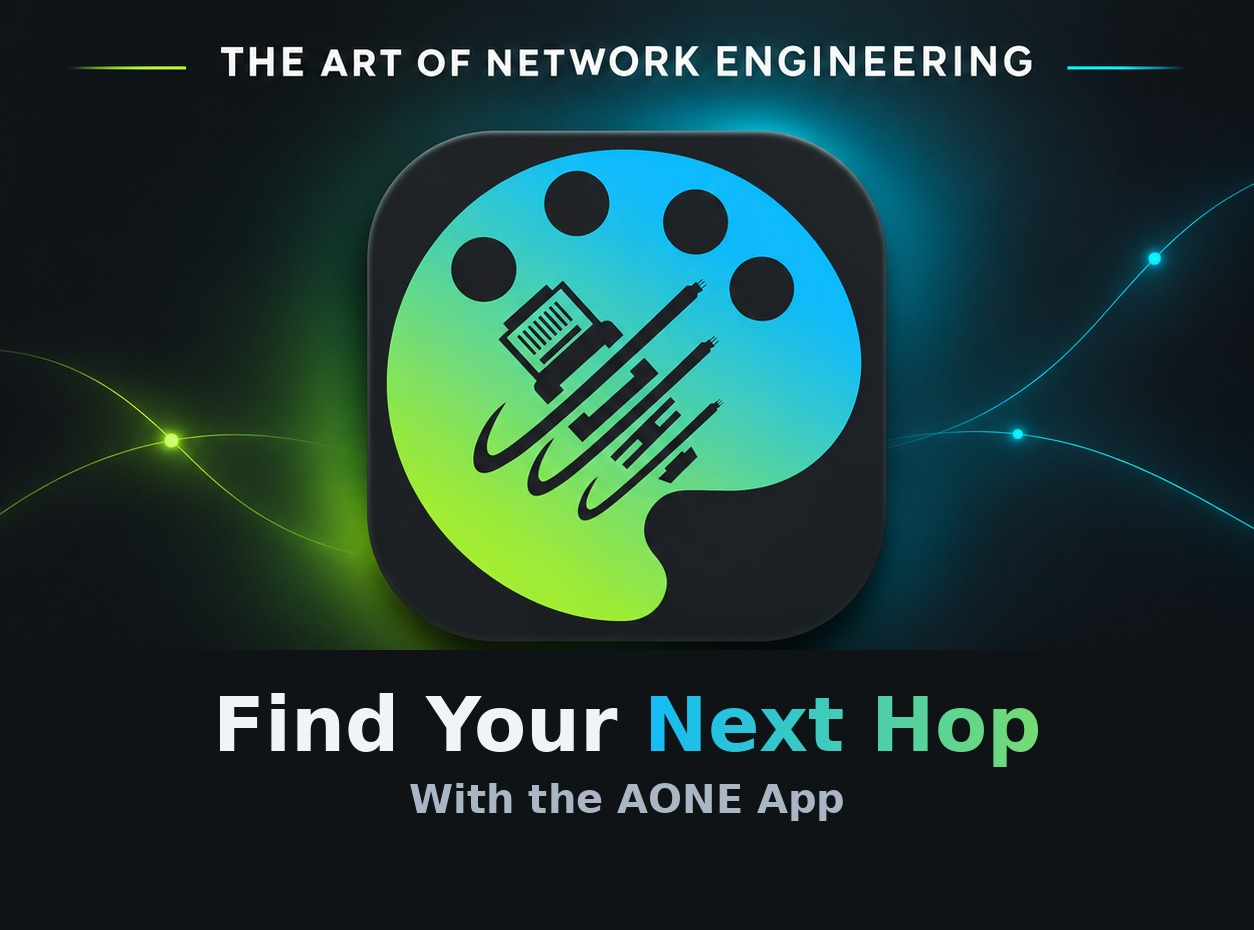
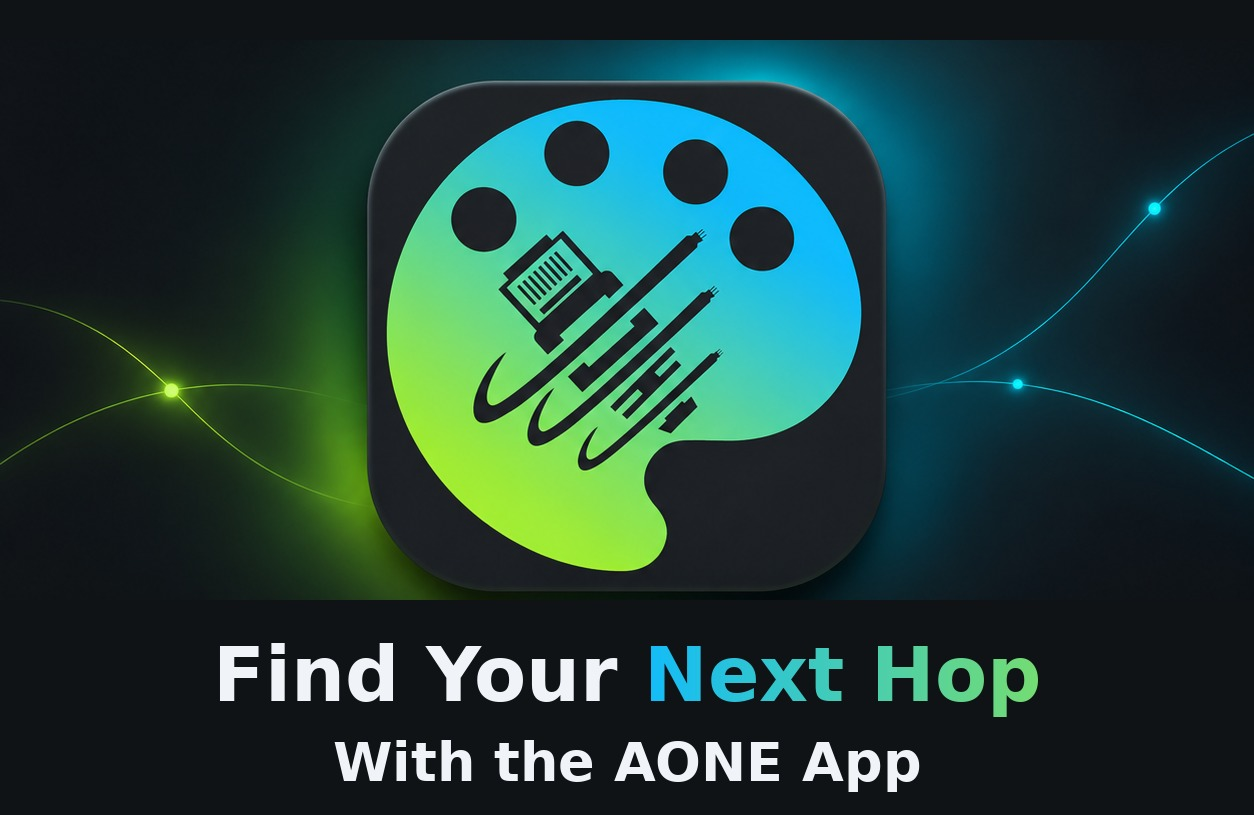
Promo image: drop the redundant header, make the second line pop
Andy: "remove 'the art of network engineering' since it's posted on
our website" -- cropped off the header text/lines, kept the icon and
its glow intact. Also: "With the AONE App" was small and muted gray;
bumped it from 40px muted to 54px bold white so it actually reads as
a second line of the headline instead of a caption underneath it.
Updated the image's real height (1254x815, was 1254x930).

Tests: 157/157 pass.

Claude-Session: https://claude.ai/code/session_01SEFLirwVnkBWyEbvxPXuyP

diff --git a/app/page.tsx b/app/page.tsx
@@ -52,7 +52,7 @@ export default function Home() {
               src="/app-promo.jpg"
               alt="The Art of Network Engineering app icon. Find Your Next Hop with the AONE app."
               width={1254}
-              height={930}
+              height={815}
               className="h-auto w-full"
             />
             <div className="bg-surface p-4 flex items-center justify-center gap-2 text-sm font-semibold text-accent-green">
